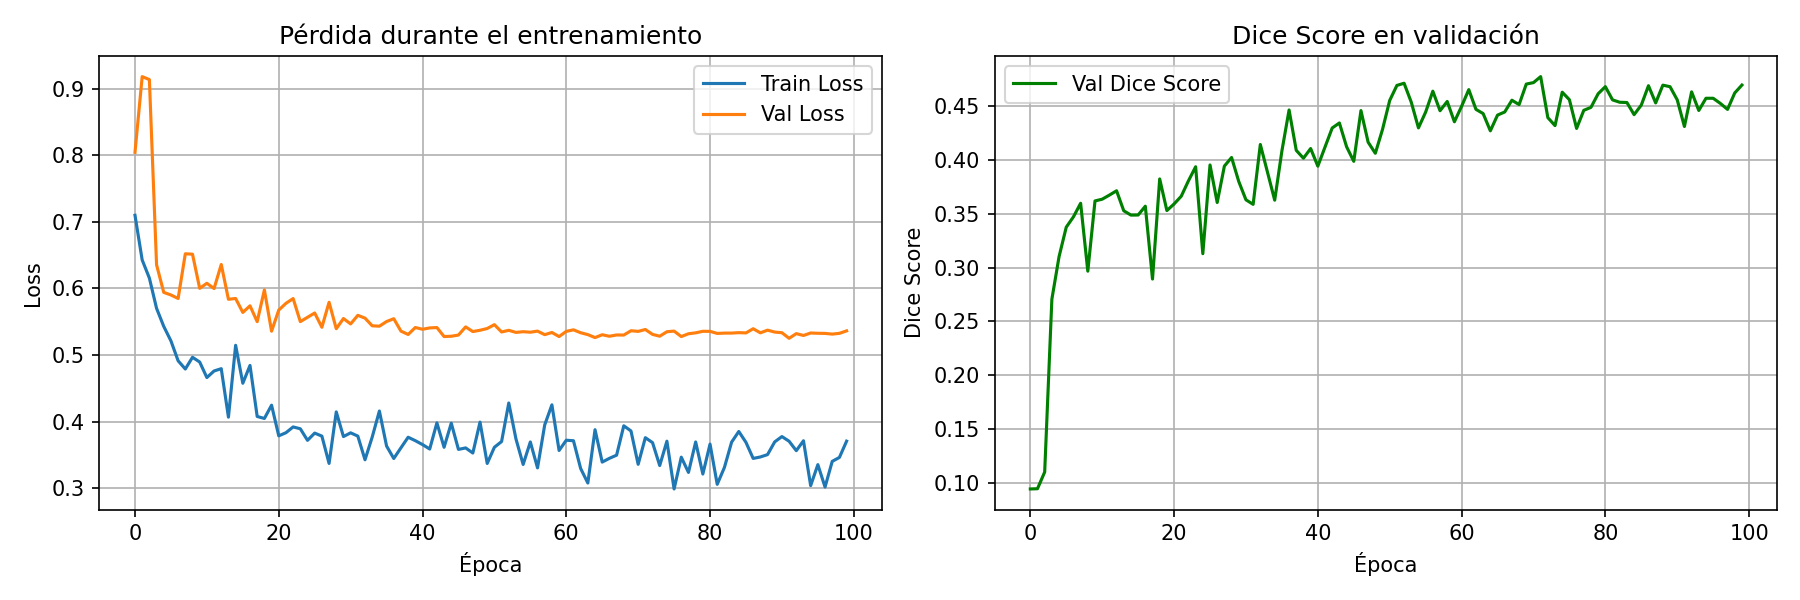
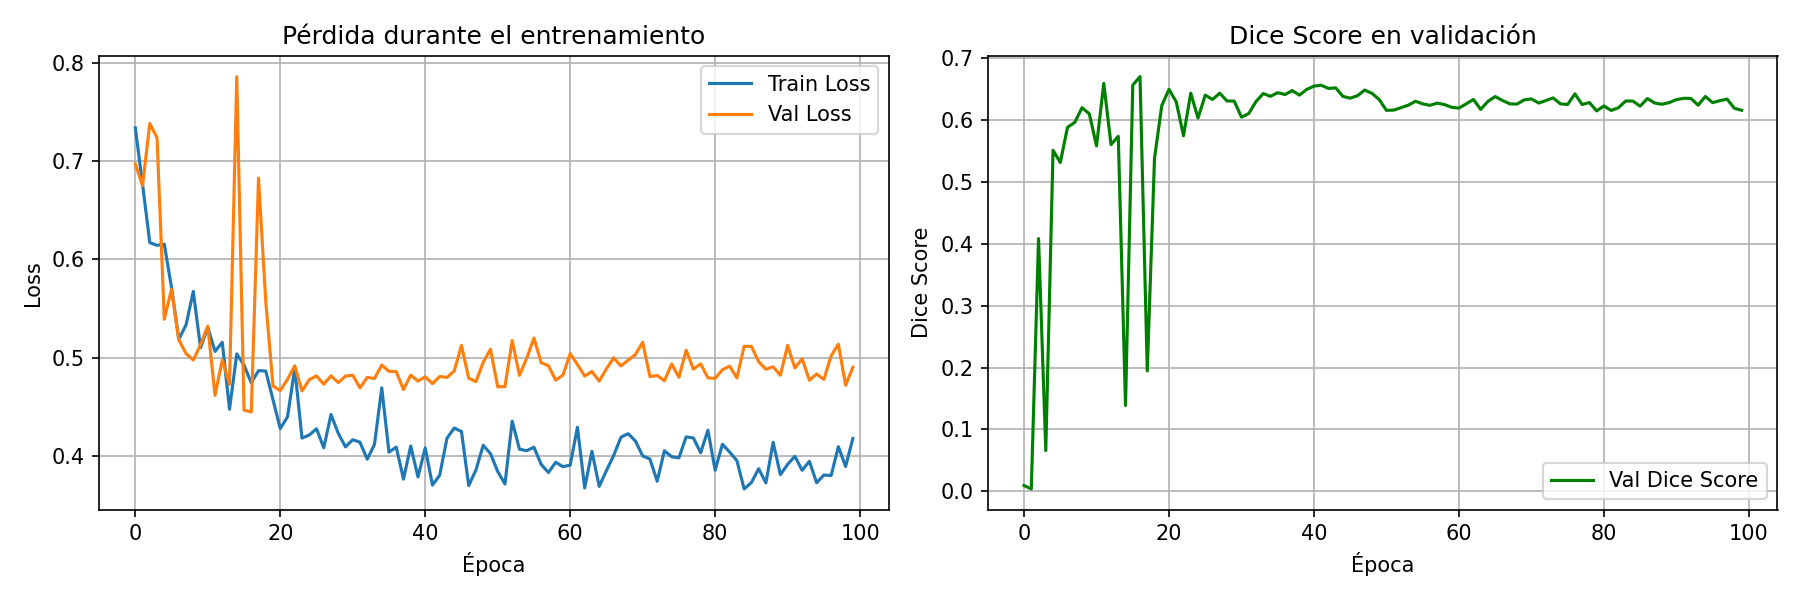
Estructura de checkpoints modificada

diff --git a/ml/entrenar.py b/ml/entrenar.py
@@ -230,7 +230,8 @@ def entrenar(
             )
             print(f"  ✓ Mejor modelo guardado (Dice: {best_dice:.4f})")
         
-        if (epoch + 1) % 1000 == 0:
+        # Cada cuarta época, guardar un checkpoint intermedio
+        if (epoch + 1) % 10 == 0:
             torch.save(
                 {
                     'epoch': epoch,
